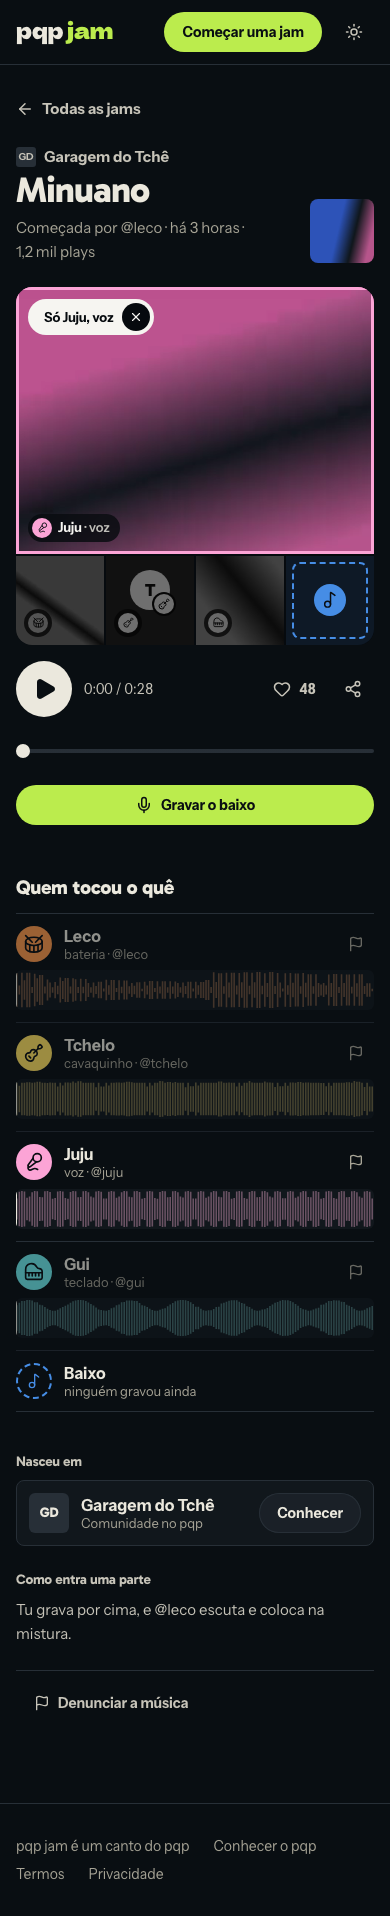
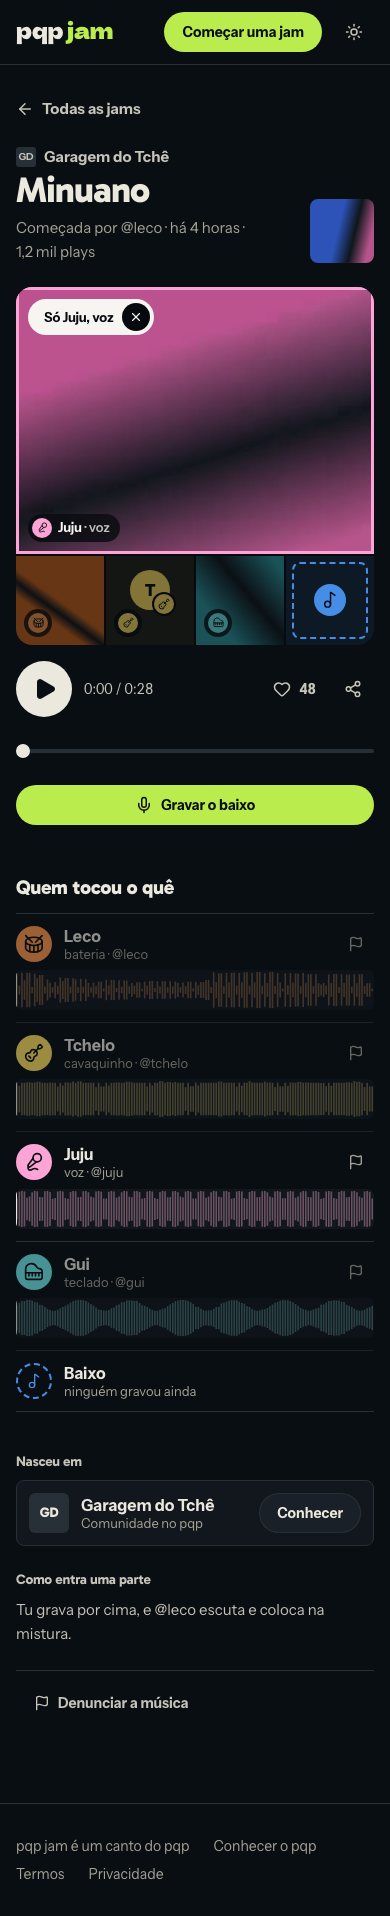
jam site: spotlight dims by opacity, final screenshots
Claude-Session: https://claude.ai/code/session_01SbDEYcT1nVK2TvtouUGA4w

diff --git a/client/src/jam-site/song-stage.tsx b/client/src/jam-site/song-stage.tsx
@@ -136,7 +136,7 @@ function PartTile({
         "@container/tile group/tile absolute inset-0 block h-full w-full cursor-pointer overflow-hidden bg-media-scrim text-left outline-none",
         // The ring is a layer ABOVE the picture: a box-shadow on the button is painted under the video.
         "after:pointer-events-none after:absolute after:inset-0 after:z-10 after:content-[''] focus-visible:after:shadow-[inset_0_0_0_3px_var(--color-accent)]",
-        dimmed && "grayscale brightness-[0.5]",
+        dimmed && "opacity-50",
       )}
       style={spotlit ? ({ "--jam-ring": `var(${look.token})` } as React.CSSProperties) : undefined}
     >
